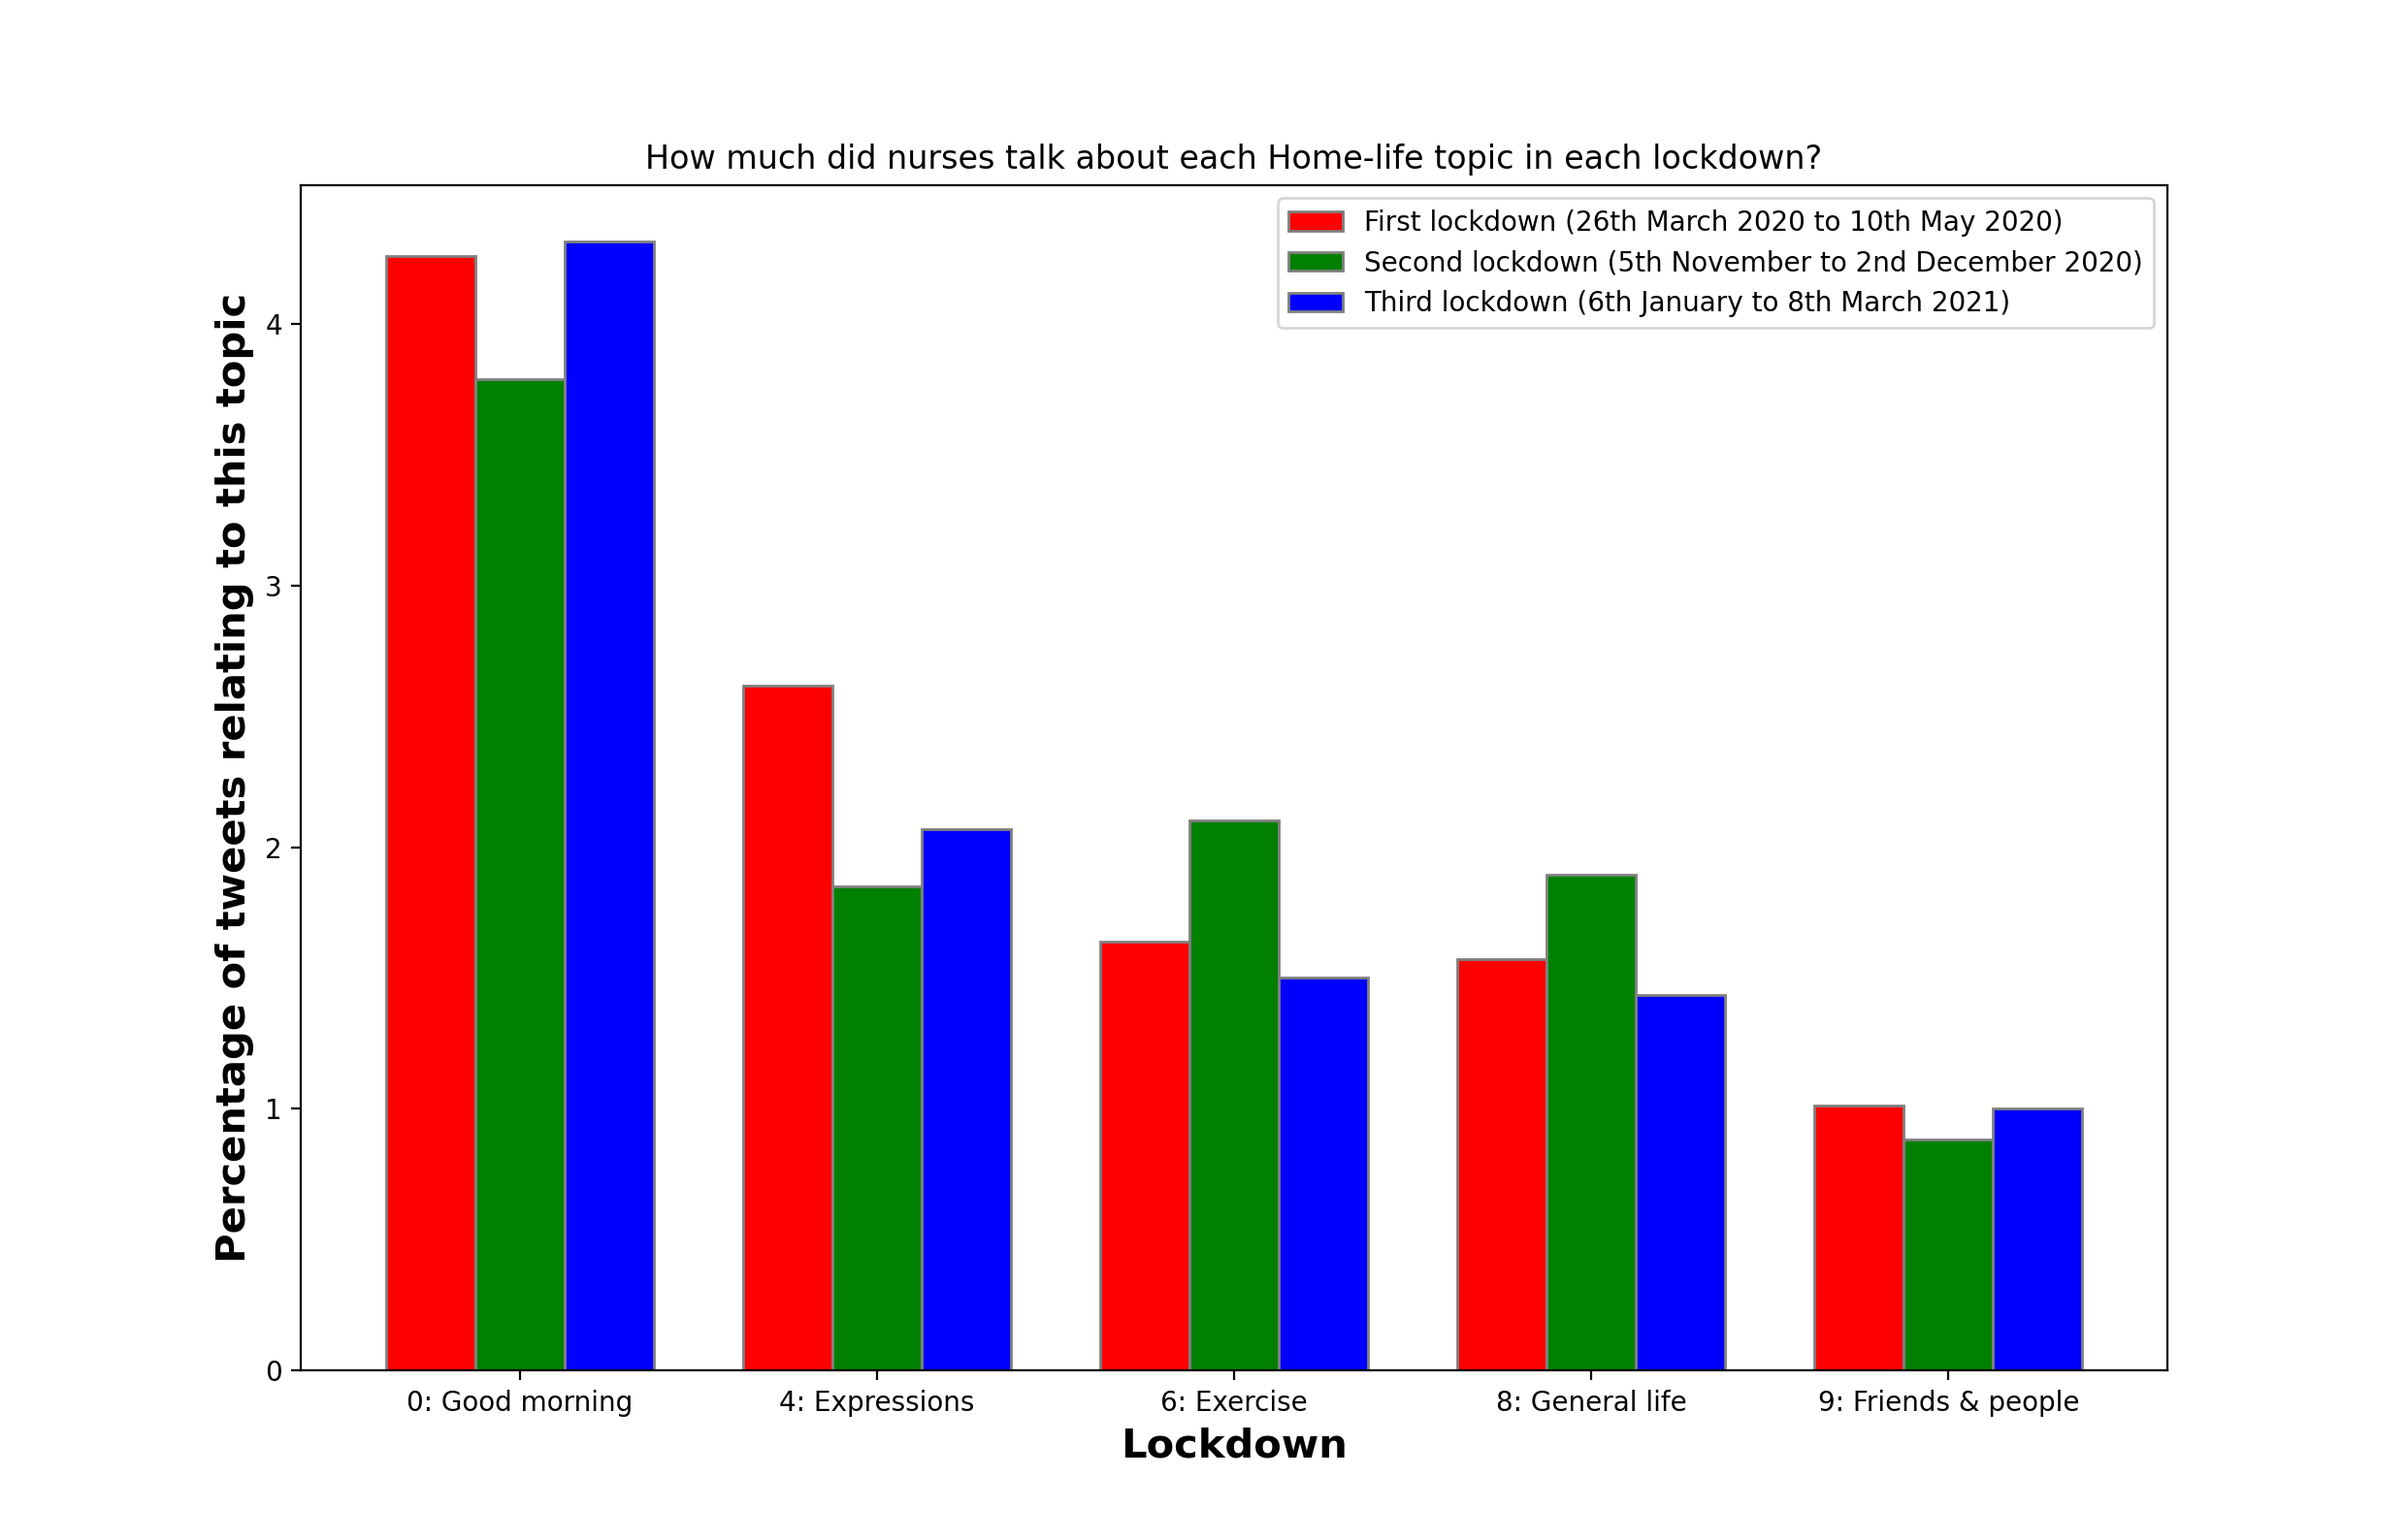
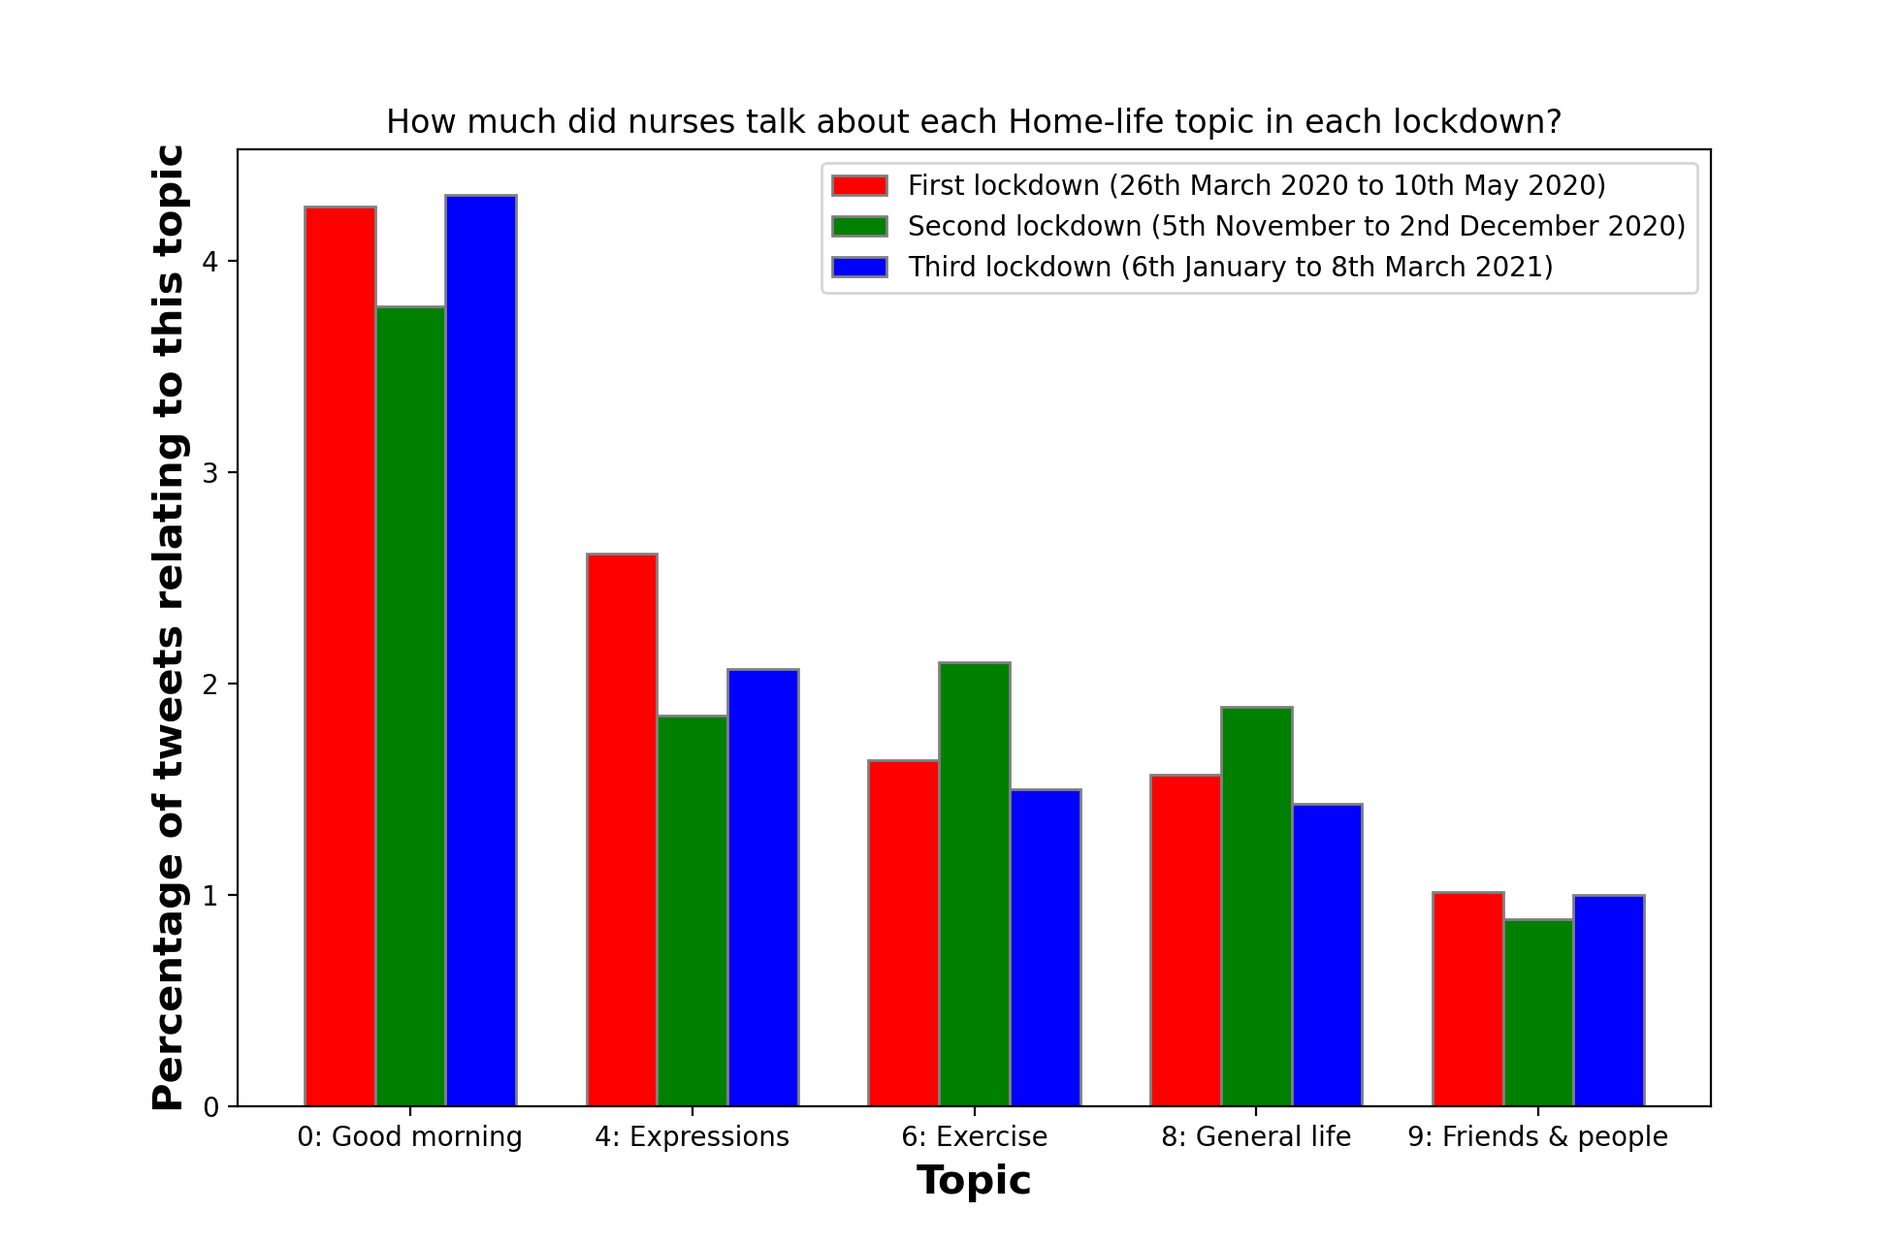
teacher plots

diff --git a/graphs/comparing_lockdowns.py b/graphs/comparing_lockdowns.py
@@ -7,10 +7,58 @@ from matplotlib import pyplot as plt
 
 directories = ["nursetweets", "doctortweets", "teachertweets",
                "railtweets", "journalisttweets", "musiciantweets"]
-directory_index = 2
+directory_index = 0
 directory_name = directories[directory_index]
-profession_name = "teacher"
+profession_name = "nurse"
 nr_topics = 10
+# topic_dict = { 0: "Twitter activity", #for teachers
+#                 1: "School and school holidays",
+#                 2: "Good mornings and people",
+#                 3: "Nature",
+#                 4: "Well wishes",
+#                 5: "Thank you's",
+#                 6: "Finances",
+#                 7: "School funding",
+#                 8: "Meals",
+#                 9: "Loving wishes"}
+#
+# topic_strings = {"0: Twitter activity", #for teachers
+#                    "1: School and  holidays",
+#                    "2: Good mornings",
+#                    "3: Nature",
+#                    "4: Well wishes",
+#                    "5: Thank you's",
+#                    "6: Finances",
+#                    "7: School funding",
+#                    "8: Meals",
+#                    "9: Loving wishes"}
+
+topic_dict = {0: "Good morning", #for nurses
+              1: "Thank you's",
+              3: "Congratulations",
+              4: "Expressions",
+              5: "Happy birthday",
+              6: "Exercise",
+              7: "Miscellaneous",
+              8: "General life",
+              9: "Friends & people"}
+
+topic_strings = ["0: Good morning",
+              "4: Expressions",
+              "6: Exercise",
+              "8: General life",
+              "9: Friends & people"]
+
+chosen_topics = [0,4,6,8,9]
+work_topics = [2]
+
+first_lockdown_df = pd.read_csv(f"graphs/{profession_name}s/first_lockdown.csv", error_bad_lines=False)
+second_lockdown_df = pd.read_csv(f"graphs/{profession_name}s/second_lockdown.csv", error_bad_lines=False)
+third_lockdown_df = pd.read_csv(f"graphs/{profession_name}s/third_lockdown.csv", error_bad_lines=False)
+control1_df = pd.read_csv(f"graphs/{profession_name}s/control1.csv", error_bad_lines=False)
+control2_df = pd.read_csv(f"graphs/{profession_name}s/control2.csv", error_bad_lines=False)
+control3_df = pd.read_csv(f"graphs/{profession_name}s/control3.csv", error_bad_lines=False)
+
 
 def get_all_tweets(directory=None):
     df = pd.DataFrame()
@@ -174,37 +222,31 @@ def get_lockdown_control():
 
 def lockdown_Life_Work():
     # first lockdown
-    first_lockdown_df = pd.read_csv(f"graphs/{profession_name}s/first_lockdown.csv", error_bad_lines=False)
     fl_counts_df = first_lockdown_df['label'].value_counts()
     fl_total_life_work = fl_counts_df["Life"]+fl_counts_df["Work"]
     first_lockdown = [fl_counts_df["Life"]/fl_total_life_work, fl_counts_df["Work"]/fl_total_life_work]
     print("first", first_lockdown)
 
-    second_lockdown_df = pd.read_csv(f"graphs/{profession_name}s/second_lockdown.csv", error_bad_lines=False)
     sl_counts_df = second_lockdown_df['label'].value_counts()
     sl_total_life_work = sl_counts_df["Life"]+sl_counts_df["Work"]
     second_lockdown = [sl_counts_df["Life"]/sl_total_life_work, sl_counts_df["Work"]/sl_total_life_work]
     print("second", second_lockdown)
 
-    third_lockdown_df = pd.read_csv(f"graphs/{profession_name}s/third_lockdown.csv", error_bad_lines=False)
     tl_counts_df = third_lockdown_df['label'].value_counts()
     tl_total_life_work = tl_counts_df["Life"]+tl_counts_df["Work"]
     third_lockdown = [tl_counts_df["Life"]/tl_total_life_work, tl_counts_df["Work"]/tl_total_life_work]
     print("third", third_lockdown)
 
-    control1_df = pd.read_csv(f"graphs/{profession_name}s/control1.csv", error_bad_lines=False)
     c1_counts_df = control1_df['label'].value_counts()
     c1_total_life_work = c1_counts_df["Life"]+c1_counts_df["Work"]
     control1 = [c1_counts_df["Life"]/c1_total_life_work, c1_counts_df["Work"]/c1_total_life_work]
     print("control1", control1)
 
-    control2_df = pd.read_csv(f"graphs/{profession_name}s/control2.csv", error_bad_lines=False)
     c2_counts_df = control2_df['label'].value_counts()
     c2_total_life_work = c2_counts_df["Life"]+c2_counts_df["Work"]
     control2 = [c2_counts_df["Life"]/c2_total_life_work, c2_counts_df["Work"]/c2_total_life_work]
     print("control2", control2)
 
-    control3_df = pd.read_csv(f"graphs/{profession_name}s/control3.csv", error_bad_lines=False)
     c3_counts_df = control3_df['label'].value_counts()
     c3_total_life_work = c3_counts_df["Life"]+c3_counts_df["Work"]
     control3 = [c3_counts_df["Life"]/c3_total_life_work, c3_counts_df["Work"]/c3_total_life_work]
@@ -236,7 +278,7 @@ def lockdown_Life_Work():
         p = ax.bar(lockdowns, value, barWidth, label=category, bottom=bottom)
         bottom += value
 
-    ax.set_title("How much did nurses tweet about Work vs Life in each lockdown (compared to the year prior)")
+    ax.set_title(f"How much did {profession_name}s tweet about Work vs Life in each lockdown (compared to the year prior)")
     ax.legend(loc="upper right")
 
 
@@ -250,32 +292,26 @@ def lockdown_Life_Work():
 
 def lockdown_Life_Work_None():
     # first lockdown
-    first_lockdown_df = pd.read_csv(f"graphs/{profession_name}s/first_lockdown.csv", error_bad_lines=False)
     fl_counts_df = first_lockdown_df['label'].value_counts()
     first_lockdown = [fl_counts_df["Life"]/len(first_lockdown_df), fl_counts_df["Work"]/len(first_lockdown_df), fl_counts_df["None"]/len(first_lockdown_df)]
     print("first", first_lockdown)
 
-    second_lockdown_df = pd.read_csv(f"graphs/{profession_name}s/second_lockdown.csv", error_bad_lines=False)
     sl_counts_df = second_lockdown_df['label'].value_counts()
     second_lockdown = [sl_counts_df["Life"]/len(second_lockdown_df), sl_counts_df["Work"]/len(second_lockdown_df), sl_counts_df["None"]/len(second_lockdown_df)]
     print("second", second_lockdown)
 
-    third_lockdown_df = pd.read_csv(f"graphs/{profession_name}s/third_lockdown.csv", error_bad_lines=False)
     tl_counts_df = third_lockdown_df['label'].value_counts()
     third_lockdown = [tl_counts_df["Life"]/len(third_lockdown_df), tl_counts_df["Work"]/len(third_lockdown_df), tl_counts_df["None"]/len(third_lockdown_df)]
     print("third", third_lockdown)
 
-    control1_df = pd.read_csv(f"graphs/{profession_name}s/control1.csv", error_bad_lines=False)
     c1_counts_df = control1_df['label'].value_counts()
     control1 = [c1_counts_df["Life"]/len(control1_df), c1_counts_df["Work"]/len(control1_df), c1_counts_df["None"]/len(control1_df)]
     print("control1", control1)
 
-    control2_df = pd.read_csv(f"graphs/{profession_name}s/control2.csv", error_bad_lines=False)
     c2_counts_df = control2_df['label'].value_counts()
     control2 = [c2_counts_df["Life"]/len(control2_df), c2_counts_df["Work"]/len(control2_df), c2_counts_df["None"]/len(control2_df)]
     print("control2", control2)
 
-    control3_df = pd.read_csv(f"graphs/{profession_name}s/control3.csv", error_bad_lines=False)
     c3_counts_df = control3_df['label'].value_counts()
     control3 = [c3_counts_df["Life"]/len(control3_df), c3_counts_df["Work"]/len(control3_df), c3_counts_df["None"]/len(control3_df)]
     print("control3", control3)
@@ -310,7 +346,7 @@ def lockdown_Life_Work_None():
         p = ax.bar(lockdowns, value, barWidth, label=category, bottom=bottom)
         bottom += value
 
-    ax.set_title("How much did nurses tweet about Work vs Life vs Neither in each lockdown?")
+    ax.set_title(f"How much did {profession_name}s tweet about Work vs Life vs Neither in each lockdown?")
     ax.legend(loc="upper right")
 
 
@@ -323,94 +359,66 @@ def lockdown_Life_Work_None():
 # lockdown_Life_Work_None()
 
 def lockdown_topics_pie():
-    categories = {0: "Good morning",
-                  1: "Thank you's",
-                  3: "Congratulations",
-                  4: "Expressions",
-                  5: "Happy birthday",
-                  6: "Exercise",
-                  7: "Miscellaneous",
-                  8: "General life",
-                  9: "Friends & people"}
-
-    first_lockdown_df = pd.read_csv(f"graphs/{profession_name}s/first_lockdown.csv", error_bad_lines=False)
+    categories = topic_dict.copy()
     fl_counts = first_lockdown_df['Topic'].value_counts()
     fl_counts = fl_counts[1:11]
-
-
     fl_values = list(dict(sorted(fl_counts.items())).values())
-    del fl_values[2]
+    for t in work_topics:
+        del fl_values[t]
+        del categories[t]
     list_categories = list(categories.values())
     fl_df = pd.DataFrame(data=fl_values, index=list_categories)
     plot = pd.DataFrame(fl_df).plot.pie(y=0, legend=False)
-    plt.title("Distribution of tweets about life topics for nurses during the first lockdown")
+    plt.title(f"Distribution of tweets about life topics for {profession_name}s during the first lockdown")
     plt.show()
 
-    second_lockdown_df = pd.read_csv(f"graph/{profession_name}s/second_lockdown.csv", error_bad_lines=False)
     sl_values = second_lockdown_df['Topic'].value_counts()
     sl_values = sl_values[1:11]
-
     sl_values = list(dict(sorted(sl_values.items())).values())
-    del sl_values[2]
-    list_categories = list(categories.values())
-    fl_df = pd.DataFrame(data=sl_values, index=list_categories)
-    plot2 = pd.DataFrame(fl_df).plot.pie(y=0, legend=False)
-    plt.title("Distribution of tweets about life topics for nurses during the second lockdown")
+    for u in work_topics:
+        del sl_values[u]
+    sl_df = pd.DataFrame(data=sl_values, index=list_categories)
+    plot2 = pd.DataFrame(sl_df).plot.pie(y=0, legend=False)
+    plt.title(f"Distribution of tweets about life topics for {profession_name}s during the second lockdown")
     plt.show()
 
     third_lockdown_df = pd.read_csv(f"graphs/{profession_name}s/third_lockdown.csv", error_bad_lines=False)
     tl_values = third_lockdown_df['Topic'].value_counts()
     tl_values = tl_values[1:11]
-
     tl_values = list(dict(sorted(tl_values.items())).values())
-    del tl_values[2]
-    list_categories = list(categories.values())
-    fl_df = pd.DataFrame(data=tl_values, index=list_categories)
-    plot3 = pd.DataFrame(fl_df).plot.pie(y=0, legend=False)
-    plt.title("Distribution of tweets about life topics for nurses during the third lockdown")
+    for v in work_topics:
+        del tl_values[v]
+    tl_df = pd.DataFrame(data=tl_values, index=list_categories)
+    plot3 = pd.DataFrame(tl_df).plot.pie(y=0, legend=False)
+    plt.title(f"Distribution of tweets about life topics for {profession_name}s during the third lockdown")
     plt.show()
 
 # lockdown_topics_pie()
 
 def lockdown_topics_bar():
     # first lockdown
-    first_lockdown_df = pd.read_csv(f"graphs/{profession_name}s/first_lockdown.csv", error_bad_lines=False)
     fl_counts_df = first_lockdown_df['Topic'].value_counts()
     first_lockdown=[]
-    for i in [0,4,6,8,9]:
+    for i in chosen_topics:
         first_lockdown.append((fl_counts_df[i]/len(first_lockdown_df))*100)
     print("first", first_lockdown)
 
     #second lockdown
-    second_lockdown_df = pd.read_csv(f"graphs/{profession_name}s/second_lockdown.csv", error_bad_lines=False)
     sl_counts_df = second_lockdown_df['Topic'].value_counts()
     second_lockdown=[]
-    for i in [0,4,6,8,9]:
+    for i in chosen_topics:
         second_lockdown.append((sl_counts_df[i]/len(second_lockdown_df))*100)
     print("second", second_lockdown)
 
     #third lockdown
-    third_lockdown_df = pd.read_csv(f"graphs/{profession_name}s/third_lockdown.csv", error_bad_lines=False)
     tl_counts_df = third_lockdown_df['Topic'].value_counts()
     third_lockdown=[]
-    for i in [0,4,6,8,9]:
+    for i in chosen_topics:
         third_lockdown.append((tl_counts_df[i]/len(third_lockdown_df))*100)
     print("third", third_lockdown)
 
-    # categories = ["0: Good morning",
-    #               "1: Thank you's",
-    #               "3: Congratulations",
-    #               "4: Expressions",
-    #               "5: Happy birthday",
-    #               "6: Exercise",
-    #               "7: Miscellaneous",
-    #               "8: General life",
-    #               "9: Friends & people"]
-    categories = ["0: Good morning",
-                  "4: Expressions",
-                  "6: Exercise",
-                  "8: General life",
-                  "9: Friends & people"]
+    categories = topic_strings.copy()
+
     print("numbers", categories)
 
     # set width of bar
@@ -430,11 +438,11 @@ def lockdown_topics_bar():
             edgecolor ='grey', label = "Third lockdown (6th January to 8th March 2021)")
 
     # Adding Xticks
-    plt.xlabel("Lockdown", fontweight ='bold', fontsize = 15)
+    plt.xlabel("Topic", fontweight ='bold', fontsize = 15)
     plt.ylabel("Percentage of tweets relating to this topic", fontweight ='bold', fontsize = 15)
     plt.xticks([r + barWidth for r in range(len(first_lockdown))],
                categories)
-    plt.title("How much did nurses talk about each Home-life topic in each lockdown?")
+    plt.title(f"How much did {profession_name}s talk about each Home-life topic in each lockdown?")
     plt.legend()
     plt.show()
 

diff --git a/graphs/top_terms.py b/graphs/top_terms.py
@@ -60,7 +60,7 @@ def top_terms():
     fig = model.visualize_barchart(topics=[0,2,3,4,5,6,8,9], n_words = 5)
     fig.show()
 
-# top_terms()
+top_terms()
 
 
 
